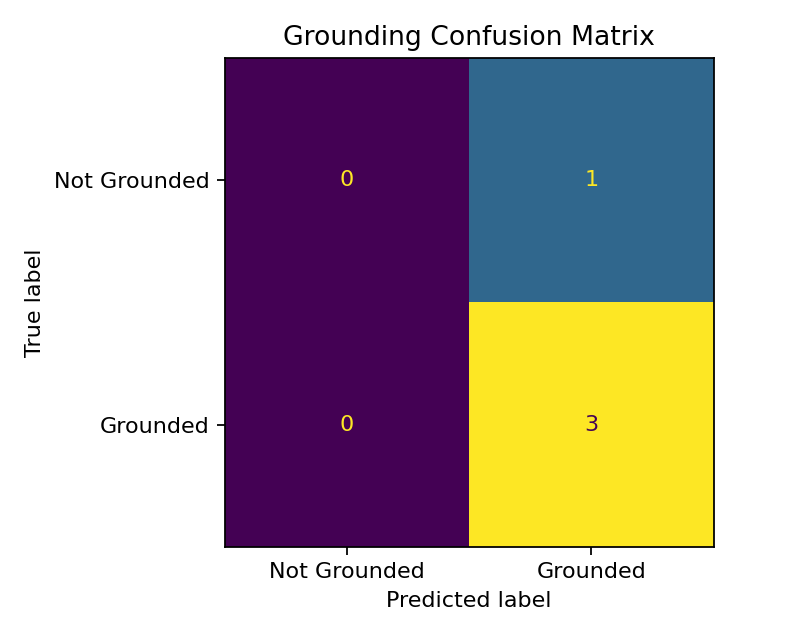
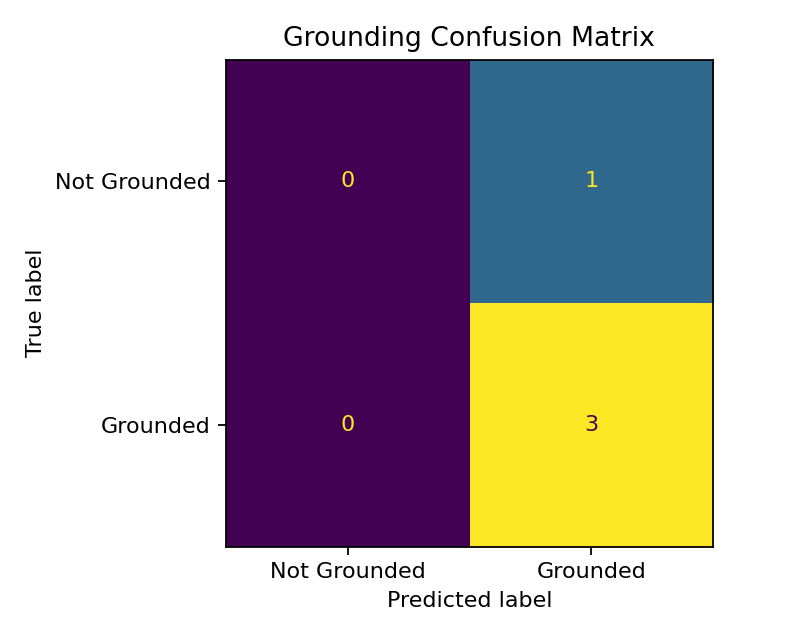
feat: update evaluation metrics and response time data; add new evaluation plots

diff --git a/scripts/evaluate_system.py b/scripts/evaluate_system.py
@@ -5,6 +5,8 @@ import time
 from pathlib import Path
 
 import httpx
+import matplotlib
+matplotlib.use("Agg")
 import matplotlib.pyplot as plt
 from sklearn.metrics import ConfusionMatrixDisplay, accuracy_score, confusion_matrix, f1_score, precision_score, recall_score
 
